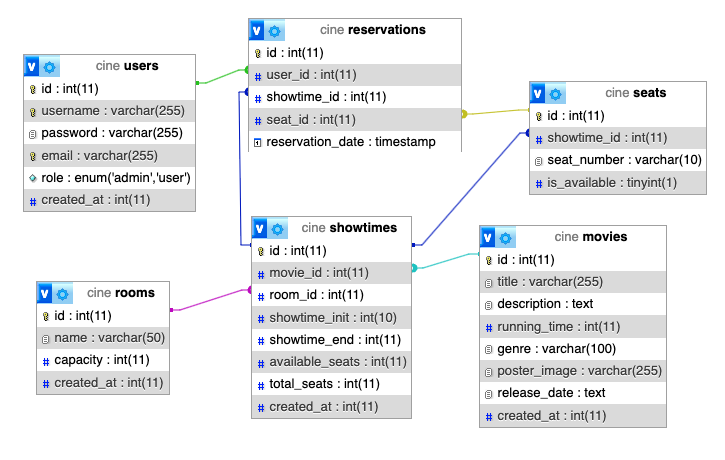
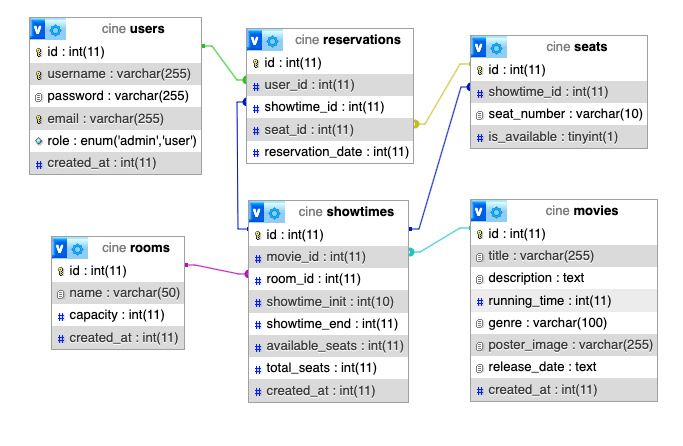
hacer una reserva y obtener los asientos ocupados de una película hecho

diff --git a/src/controllers/reservationController.ts b/src/controllers/reservationController.ts
@@ -9,9 +9,8 @@ import { verifyToken } from '../utils/tokenDecode';
  * Add a new reservation.
  * @route POST /api/reservations/add
  * @group Showtime
- * @param {number} user_id.body.required - ID of the user
  * @param {number} showtime_id.body.required - ID of the showtime
- * @param {number} seat_id.body.required - ID of the seat
+ * @param {number} seat_number.body.required - Number of the seat
  * @returns {object} 200 - Showtime added successfully
  * @returns {object} 400 - Bad request
  * @returns {object} 409 - Conflict, showtime date conflict
@@ -20,7 +19,7 @@ import { verifyToken } from '../utils/tokenDecode';
  * @security Bearer token
  */
 export const addReservation = async (req: Request, res: Response) => {
-    const { user_id, showtime_id, seat_id } = req.body;
+    const { showtime_id, seat_number } = req.body;
     const endpoint = `${req.method} ${req.url}`;
     const ip = req.headers['x-forwarded-for'] as string || req.socket.remoteAddress || '';
 
@@ -31,97 +30,93 @@ export const addReservation = async (req: Request, res: Response) => {
     }
 
     try {
+
         const decoded = await verifyToken(token);
 
-        if (typeof decoded !== 'object' || decoded === null) {
+        if (typeof decoded === 'object' && decoded !== null) {
+            if (decoded.role === 'user') {
+                return sendUnauthorized(res, undefined, ip, 'Solo los usuarios admin pueden añadir películas', endpoint);
+            }
+        } else {
             console.error('Decodificación fallida, no es un objeto válido.');
             return sendUnauthorized(res, undefined, ip, 'Token inválido', endpoint);
         }
 
+        const user_id = decoded.id;
+
         // Validación de los parámetros requeridos
-        if (!user_id || !showtime_id || !seat_id) {
+        if (!showtime_id || !seat_number) {
             return sendBadParam(res, undefined, ip, 'Todos los campos son obligatorios', endpoint);
         }
 
+        // Verificación del espectáculo
+        const checkShowtimeQuery = 'SELECT COUNT(*) as count FROM showtimes WHERE id = ?';
+        const [showtimeCheckRows] = await db.promise().query<RowDataPacket[]>(checkShowtimeQuery, [showtime_id]);
+
+        if (showtimeCheckRows[0].count <= 0) {
+            return sendConflict(res, undefined, ip, 'El espectáculo no existe', endpoint);
+        }
+
+        const getShowtimeEndQuery = 'SELECT room_id, showtime_init, showtime_end FROM showtimes WHERE id = ?';
+        const [showtimeRows] = await db.promise().query<RowDataPacket[]>(getShowtimeEndQuery, [showtime_id]);
+
         const reservation_date = Math.floor(new Date().getTime() / 1000); // Timestamp actual
+        const showtime_init = showtimeRows[0].showtime_init;
+        const showtime_end = showtimeRows[0].showtime_end;
 
-        // Verificación del timestamp
-        if (reservation_date >= showtime_init) {
-            return sendConflict(res, undefined, ip, 'La película ya he empezado o terminado', endpoint);
+        const showtimeToCompare = ((showtime_end - showtime_init) / 2) + showtime_init
+
+        // Si la película ya va por la mitad que no se pueda hacer la reserva
+        if (reservation_date >= showtimeToCompare) {
+            return sendConflict(res, undefined, ip, 'La película ya está muy empezada', endpoint);
         }
 
-        // Verificación de la película
-        const checkMovieQuery = 'SELECT COUNT(*) as count FROM movies WHERE id = ?';
-        const [movieCheckRows] = await db.promise().query<RowDataPacket[]>(checkMovieQuery, [movie_id]);
+        // Verificación de que el asiento seleccionado no exceda el rango de la sala
+        const getRoomQuery = 'SELECT room_id FROM showtimes WHERE id = ?';
+        const [roomRows] = await db.promise().query<RowDataPacket[]>(getRoomQuery, [showtime_id]);
 
-        if (movieCheckRows[0].count <= 0) {
-            return sendConflict(res, undefined, ip, 'La película no existe', endpoint);
+        if (roomRows[0].count > 0) {
+            return sendConflict(res, undefined, ip, 'El espectáculo no existe', endpoint);
+        }
+        const getCapacityQuery = 'SELECT capacity FROM rooms WHERE id = ?';
+        const [capacityRows] = await db.promise().query<RowDataPacket[]>(getCapacityQuery, [roomRows[0].room_id]);
+
+        if (seat_number > capacityRows[0].capacity || seat_number <= 0) {
+            return sendConflict(res, undefined, ip, 'El asiento seleccionado está fuera de rango', endpoint);
         }
 
-        // Verificación de la sala (room) y obtención de la capacidad
-        const getTotalSeatsQuery = 'SELECT capacity FROM rooms WHERE id = ?';
-        const [totalSeatsRows] = await db.promise().query<RowDataPacket[]>(getTotalSeatsQuery, [room_id]);
+        // Verificación de que el asiento no esté ocupado
+        const getSeatCheckQuery = 'SELECT COUNT(*) as count FROM seats WHERE showtime_id = ? and seat_number = ?';
+        const [seatRows] = await db.promise().query<RowDataPacket[]>(getSeatCheckQuery, [showtime_id, seat_number]);
 
-        if (totalSeatsRows.length === 0) {
-            return sendBadParam(res, undefined, ip, 'No se encontró la sala con el ID proporcionado', endpoint);
+        if (seatRows[0].count > 0) {
+            return sendConflict(res, undefined, ip, 'El asiento está ocupado', endpoint);
         }
 
-        // Obtención de la duración de la película para calcular la duración del espectáculo
-        const getMovieTimeQuery = 'SELECT running_time FROM movies WHERE id = ?';
-        const [movieRows] = await db.promise().query<RowDataPacket[]>(getMovieTimeQuery, [movie_id]);
+        const insertQuery = 'INSERT INTO seats (showtime_id, seat_number) VALUES (?, ?)';
+        const [insertResult] = await db.promise().query<ResultSetHeader>(insertQuery, [showtime_id, seat_number]);
 
-        if (movieRows.length === 0) {
-            return sendBadParam(res, undefined, ip, 'No se encontró la película con el ID proporcionado', endpoint);
+        if (insertResult.affectedRows <= 0) {
+            return sendServerError(res, undefined, ip, 'Error al reservar el asiento', endpoint);
         }
 
-        const capacity = totalSeatsRows[0].capacity;
-        const running_time = movieRows[0].running_time;
-        const showtime_end = showtime_init + running_time + 1800; //sumamos 30 minutos (en segundos)
+        const selectIdQuery = 'SELECT id FROM seats WHERE showtime_id = ? and seat_number = ?';
+        const [idResult] = await db.promise().query<RowDataPacket[]>(selectIdQuery, [showtime_id, seat_number]);
 
-        const getShowtimesQuery = 'SELECT * FROM showtimes WHERE room_id = ?';
-        const [showtimesRows] = await db.promise().query<RowDataPacket[]>(getShowtimesQuery, [room_id]);
+        const seat_id = idResult[0].id;
 
-        // Verifica si hay solapamiento entre los espectáculos.
-        if (showtimesRows.length > 0) {
-            for (let i = 0; i < showtimesRows.length; i++) {
-                const existingShowtimeInit = showtimesRows[i].showtime_init;
-                const existingShowtimeEnd = showtimesRows[i].showtime_end;
+        // Inserción de la reserva en la base de datos
+        const insertReservationQuery = `
+            INSERT INTO reservations (user_id, showtime_id, seat_id, reservation_date) 
+            VALUES (?, ?, ?, ?)`;
 
-                let conflictType = null;
+        const reservationValues = [user_id, showtime_id, seat_id, reservation_date];
 
-                // Determinamos el tipo de conflicto
-                if (showtime_init >= existingShowtimeInit && showtime_init < existingShowtimeEnd) {
-                    conflictType = 'startOverlap'; // Nuevo inicio dentro de un espectáculo existente
-                } else if (showtime_end > existingShowtimeInit && showtime_end <= existingShowtimeEnd) {
-                    conflictType = 'endOverlap'; // Nuevo fin dentro de un espectáculo existente
-                } else if (showtime_init <= existingShowtimeInit && showtime_end >= existingShowtimeEnd) {
-                    conflictType = 'fullOverlap'; // Nuevo espectáculo abarca a uno existente
-                }
-
-                // Verificamos el tipo de conflicto y enviamos el mensaje adecuado
-                switch (conflictType) {
-                    case 'startOverlap':
-                        return sendConflict(res, undefined, ip, `El inicio del nuevo espectáculo se solapa con el espectáculo existente (ID: ${showtimesRows[i].id})`, endpoint);
-                    case 'endOverlap':
-                        return sendConflict(res, undefined, ip, `El fin del nuevo espectáculo se solapa con el espectáculo existente (ID: ${showtimesRows[i].id})`, endpoint);
-                    case 'fullOverlap':
-                        return sendConflict(res, undefined, ip, `El nuevo espectáculo abarca completamente el espectáculo existente (ID: ${showtimesRows[i].id})`, endpoint);
-                }
-            }
-        }
-
-        // Preparación e inserción del nuevo showtime en la base de datos
-        const insertShowtimeQuery = `
-            INSERT INTO showtimes (movie_id, room_id, showtime_init, showtime_end ,available_seats, total_seats, created_at) 
-            VALUES (?, ?, ?, ?, ?, ?, ?)`;
-
-        const showtimeValues = [movie_id, room_id, showtime_init, showtime_end, capacity, capacity, created_at];
-
-        const [result] = await db.promise().query<ResultSetHeader>(insertShowtimeQuery, showtimeValues);
+        const [result] = await db.promise().query<ResultSetHeader>(insertReservationQuery, reservationValues);
 
         // Verificar si el showtime fue añadido correctamente
         if (result.affectedRows > 0) {
-            return sendOk(res, undefined, ip, { message: 'Espectáculo añadido correctamente' }, endpoint);
+            return sendOk(res, undefined, ip, { message: 'Reserva hecha correctamente' }, endpoint);
         } else {
             return sendServerError(res, undefined, ip, 'Error al añadir el espectáculo', endpoint);
         }

diff --git a/src/controllers/seatController.ts b/src/controllers/seatController.ts
@@ -1,0 +1,57 @@
+import { Request, Response } from 'express';
+import db from '../config/db';
+import { ResultSetHeader, RowDataPacket } from 'mysql2';
+import { sendOk, sendBadParam, sendUnauthorized, sendServerError, sendConflict } from '../utils/messages';
+import { verifyToken } from '../utils/tokenDecode';
+
+/**
+ * Get all movies by showtime.
+ * @route GET /api/seats/showtime/{showtime_id}
+ * @group Seats
+ * @param {number} showtime_id.path.required - genre of the movies to retrieve 
+ * @returns {object} 200 - List of movies with id and title by genre
+ * @returns {object} 401 - Unauthorized, token not provided or invalid
+ * @returns {object} 404 - Movie not found
+ * @returns {object} 500 - Internal server error
+ * @security Bearer token
+ */
+export const getShowtimeSeats = async (req: Request, res: Response) => {
+    const endpoint = `${req.method} ${req.url}`;
+    const ip = req.headers['x-forwarded-for'] as string || req.socket.remoteAddress || '';
+
+    const token = req.headers['authorization']?.split(' ')[1];
+    if (!token) {
+        return sendUnauthorized(res, undefined, ip, 'Token no proporcionado', endpoint);
+    }
+
+    try {
+        const decoded = await verifyToken(token);
+
+        if (typeof decoded !== 'object' || decoded === null) {
+            console.error('Decodificación fallida, no es un objeto válido.');
+            return sendUnauthorized(res, undefined, ip, 'Token inválido', endpoint);
+        }
+
+        const { showtime_id } = req.params; // Extraer el ID de los parámetros de la ruta
+        if (!showtime_id) {
+            return sendBadParam(res, undefined, ip, 'ID del espectáculo no proporcionado', endpoint);
+        }
+
+        //Verificar si el showtime existe
+        const checkShowtimeQuery = 'SELECT * FROM showtimes WHERE id = ?';
+        const [showtimeRows] = await db.promise().query<RowDataPacket[]>(checkShowtimeQuery, [showtime_id]);
+
+        if (showtimeRows.length === 0) {
+            return sendBadParam(res, undefined, ip, 'No existe el espectáculo', endpoint);
+        }
+
+        const getShowtimeSeatsQuery = 'SELECT * FROM seats WHERE showtime_id = ?';
+        const [rows] = await db.promise().query<RowDataPacket[]>(getShowtimeSeatsQuery, [showtime_id]);
+
+        return sendOk(res, undefined, ip, { seats: rows }, endpoint);
+
+    } catch (error) {
+        console.error('Error al procesar la solicitud:', error);
+        return sendServerError(res, undefined, ip, 'Error en el servidor', endpoint);
+    }
+};

diff --git a/src/index.ts b/src/index.ts
@@ -3,6 +3,7 @@ import userRoutes from './routes/userRoutes';
 import movieRoutes from './routes/movieRoutes';
 import showtimeRoutes from './routes/showtimeRoutes';
 import reservationsRoutes from './routes/reservationRoutes';
+import seatRoutes from './routes/seatRoutes';
 import loggerMiddleware from './middleware/loggerMiddleware';
 
 const app = express();
@@ -17,6 +18,7 @@ app.use('/api/users', userRoutes);
 app.use('/api/movies', movieRoutes);
 app.use('/api/showtimes', showtimeRoutes);
 app.use('/api/reservations', reservationsRoutes);
+app.use('/api/seats', seatRoutes);
 
 // Iniciar el servidor
 app.listen(PORT, () => {

diff --git a/src/routes/reservationRoutes.ts b/src/routes/reservationRoutes.ts
@@ -1,10 +1,10 @@
 import { Router } from 'express';
-//import {  } from '../controllers/reservationController';
+import { addReservation } from '../controllers/reservationController';
 //import { addShowtime, getAllShowtimes, getOneShowtime, editShowtime, deleteShowtime } from '../controllers/reservationController';
 
 const router = Router();
 
-//router.post('/add', addShowtime);
+router.post('/add', addReservation);
 //router.get('', getAllShowtimes);
 //router.get('/:id', getOneShowtime);
 //router.patch('/:id', editShowtime);

diff --git a/src/routes/seatRoutes.ts b/src/routes/seatRoutes.ts
@@ -1,0 +1,8 @@
+import { Router } from 'express';
+import { getShowtimeSeats } from '../controllers/seatController';
+
+const router = Router();
+
+router.get('/showtime/:showtime_id', getShowtimeSeats);
+
+export default router;
